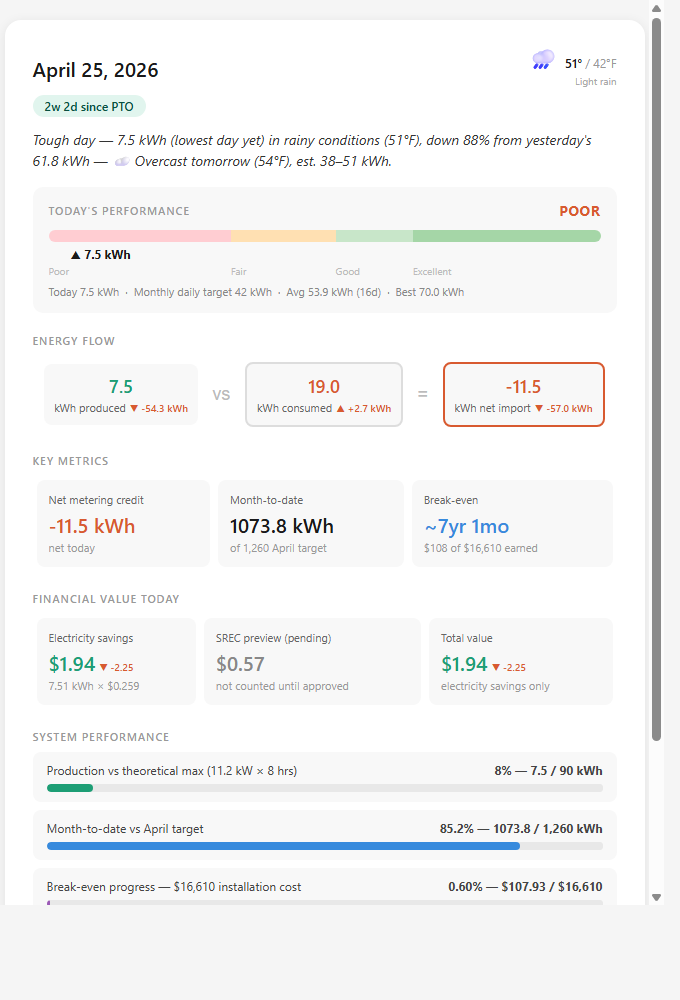
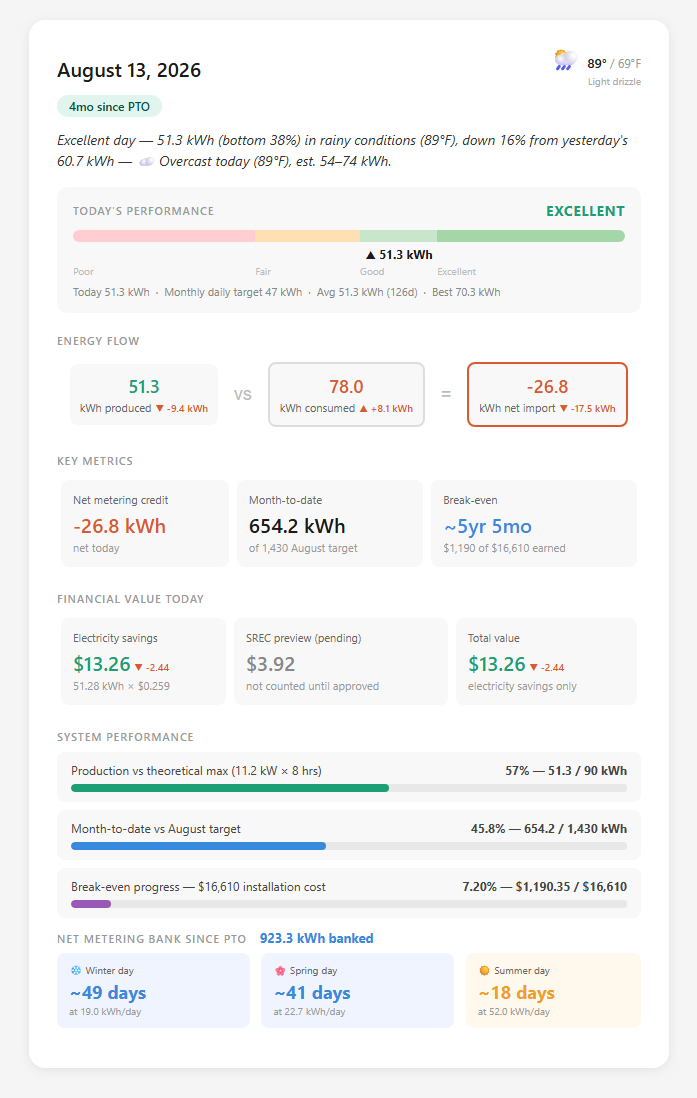
fix: calibrate net metering bank to PSE&G's own meter reading (#17)
Enphase's daily-level SUM(produced - consumed) since PTO_DATE was
drifting from PSE&G's revenue-grade bidirectional meter — about 150 kWh
low as of August 2026, confirmed by cross-checking three real PSE&G
bills' "Net Metering Program" tables against the app's figure. The
drift comes from normal CT calibration differences plus PSE&G's
banking window starting slightly before Enphase's PTO_DATE cutoff, and
it compounds over time since the app was pure daily-telemetry
summation with no ground truth to correct against.

get_net_bank() now anchors to the latest bill instead: BANK_ANCHOR_DATE
and BANK_ANCHOR_KWH (2026-08-07, 1055.0 kWh) come straight from the
bill's cumulative figure, and only the Enphase delta for days after
that anchor gets added on top. Re-anchoring is a one-line update in
database.py whenever a new bill arrives.

Verified by regenerating the 2026-08-13 report, which now shows 923.3
kWh banked since PTO (up from an under-counted 776.3 kWh), and by
sending a live test email for that date to adeel@adeelkhan.com, which
the user confirmed looks correct.

diff --git a/database.py b/database.py
@@ -11,6 +11,18 @@ CONFIG_PATH = Path(__file__).parent / "config.json"
 # count into a single day (e.g. 16,782 kWh vs a normal ~30-70 kWh/day).
 CONSUMPTION_SANITY_CAP_KWH = 300
 
+# Net metering bank calibration. Enphase's day-level SUM(produced - consumed)
+# drifts from PSE&G's revenue-grade bidirectional meter over time (normal CT
+# calibration difference, plus PSE&G's net-metering banking window starting
+# slightly before Enphase's PTO_DATE cutoff) — by ~150 kWh over 4 months as of
+# Aug 2026. Re-anchor these two values whenever a new bill arrives: open the
+# bill's "Net Metering Program" table, take the latest row's meter-reading
+# date and "Cumulative kWh" figure, and set BANK_ANCHOR_DATE/BANK_ANCHOR_KWH
+# to that date and its sign-flipped value (PSE&G's convention is IN - OUT;
+# this project's convention is produced - consumed = -(IN - OUT)).
+BANK_ANCHOR_DATE = "2026-08-07"   # PSE&G meter-reading date last calibrated against
+BANK_ANCHOR_KWH  = 1055.0         # PSE&G cumulative kWh as of BANK_ANCHOR_DATE, sign-flipped
+
 
 def is_consumption_anomalous(consumed: float | None) -> bool:
     return consumed is not None and consumed > CONSUMPTION_SANITY_CAP_KWH
@@ -201,21 +213,27 @@ def get_period_summary(start: str, end: str) -> dict | None:
 
 def get_net_bank(since_date: str) -> dict:
     """
-    Net metering bank (SUM of net) since since_date, excluding days with an
-    anomalous consumption reading so a bad meter glitch doesn't corrupt the
-    banked-kWh figure. Returns banked_kwh and how many days were excluded.
+    Net metering bank: BANK_ANCHOR_KWH (PSE&G's own cumulative figure as of
+    BANK_ANCHOR_DATE) plus Enphase's day-level net for every day after the
+    anchor. Anchoring to the latest bill keeps the figure accurate — summing
+    Enphase's SUM(net) from since_date alone drifts from PSE&G's meter over
+    time (see BANK_ANCHOR_KWH comment). Assumes since_date <= BANK_ANCHOR_DATE
+    (true for the current caller, PTO_DATE). Days with an anomalous
+    consumption reading are excluded so a bad meter glitch doesn't corrupt it.
+    Returns banked_kwh and how many days were excluded.
     """
     conn = get_conn()
+    anchor_date = max(since_date, BANK_ANCHOR_DATE)
     row = conn.execute("""
         SELECT
-            SUM(CASE WHEN consumed <= ? THEN net END) as banked_kwh,
+            SUM(CASE WHEN consumed <= ? THEN net END) as delta_kwh,
             SUM(CASE WHEN consumed > ? THEN 1 ELSE 0 END) as anomalous_days
         FROM daily_readings
-        WHERE date >= ?
-    """, (CONSUMPTION_SANITY_CAP_KWH, CONSUMPTION_SANITY_CAP_KWH, since_date)).fetchone()
+        WHERE date > ?
+    """, (CONSUMPTION_SANITY_CAP_KWH, CONSUMPTION_SANITY_CAP_KWH, anchor_date)).fetchone()
     conn.close()
     return {
-        "banked_kwh": (row["banked_kwh"] or 0.0) if row else 0.0,
+        "banked_kwh": BANK_ANCHOR_KWH + ((row["delta_kwh"] or 0.0) if row else 0.0),
         "anomalous_days": (row["anomalous_days"] or 0) if row else 0,
     }
 

diff --git a/CLAUDE.md b/CLAUDE.md
@@ -28,7 +28,7 @@ weather.py           — Open-Meteo weather/forecast fetch (peak solar hours 9am
 - **Weather**: Uses hourly WMO codes during **peak solar hours only (9am–2pm)** to avoid overnight conditions skewing the description.
 - **Email subject**: Colour-dot prefix (🟢🟡🟠🔴) based on production vs daily target ratio.
 - **Headline**: One-sentence summary with rating opener, all-time percentile (top X%), weather context, % change vs yesterday, tomorrow forecast. Special cases: "🏆 New record" for rank 1, "lowest day yet" for last place.
-- **Net metering bank**: `SUM(net)` since PTO_DATE — cumulative kWh exported to grid.
+- **Net metering bank**: Calibrated to PSE&G's own cumulative net-metering figure (`BANK_ANCHOR_DATE`/`BANK_ANCHOR_KWH` in `database.py`) plus `SUM(net)` for Enphase days after the anchor. Re-anchor from the bill's "Net Metering Program" table whenever a new bill arrives — Enphase's daily-total telemetry drifts from PSE&G's meter over time.
 - **Break-even**: Year-by-year compound model, 3% annual rate escalation, SREC excluded.
 
 ## Configuration (`config.json` — gitignored)

diff --git a/README.md b/README.md
@@ -22,7 +22,7 @@ Sent every morning at 5am covering the previous day.
   - Production vs. theoretical max
   - Month-to-date vs. monthly target
   - Break-even progress
-  - **Net metering bank** — cumulative kWh and dollar value banked since PTO, with days-of-coverage estimate
+  - **Net metering bank** — cumulative kWh and dollar value banked since PTO, with days-of-coverage estimate. Calibrated to PSE&G's own cumulative net-metering figure from the latest bill, plus day-level Enphase data for everything after — Enphase's telemetry alone drifts from the utility's meter by a few percent over time
 
 ### Weekly Report
 Sent every Monday at 6:00 AM covering the previous week.
